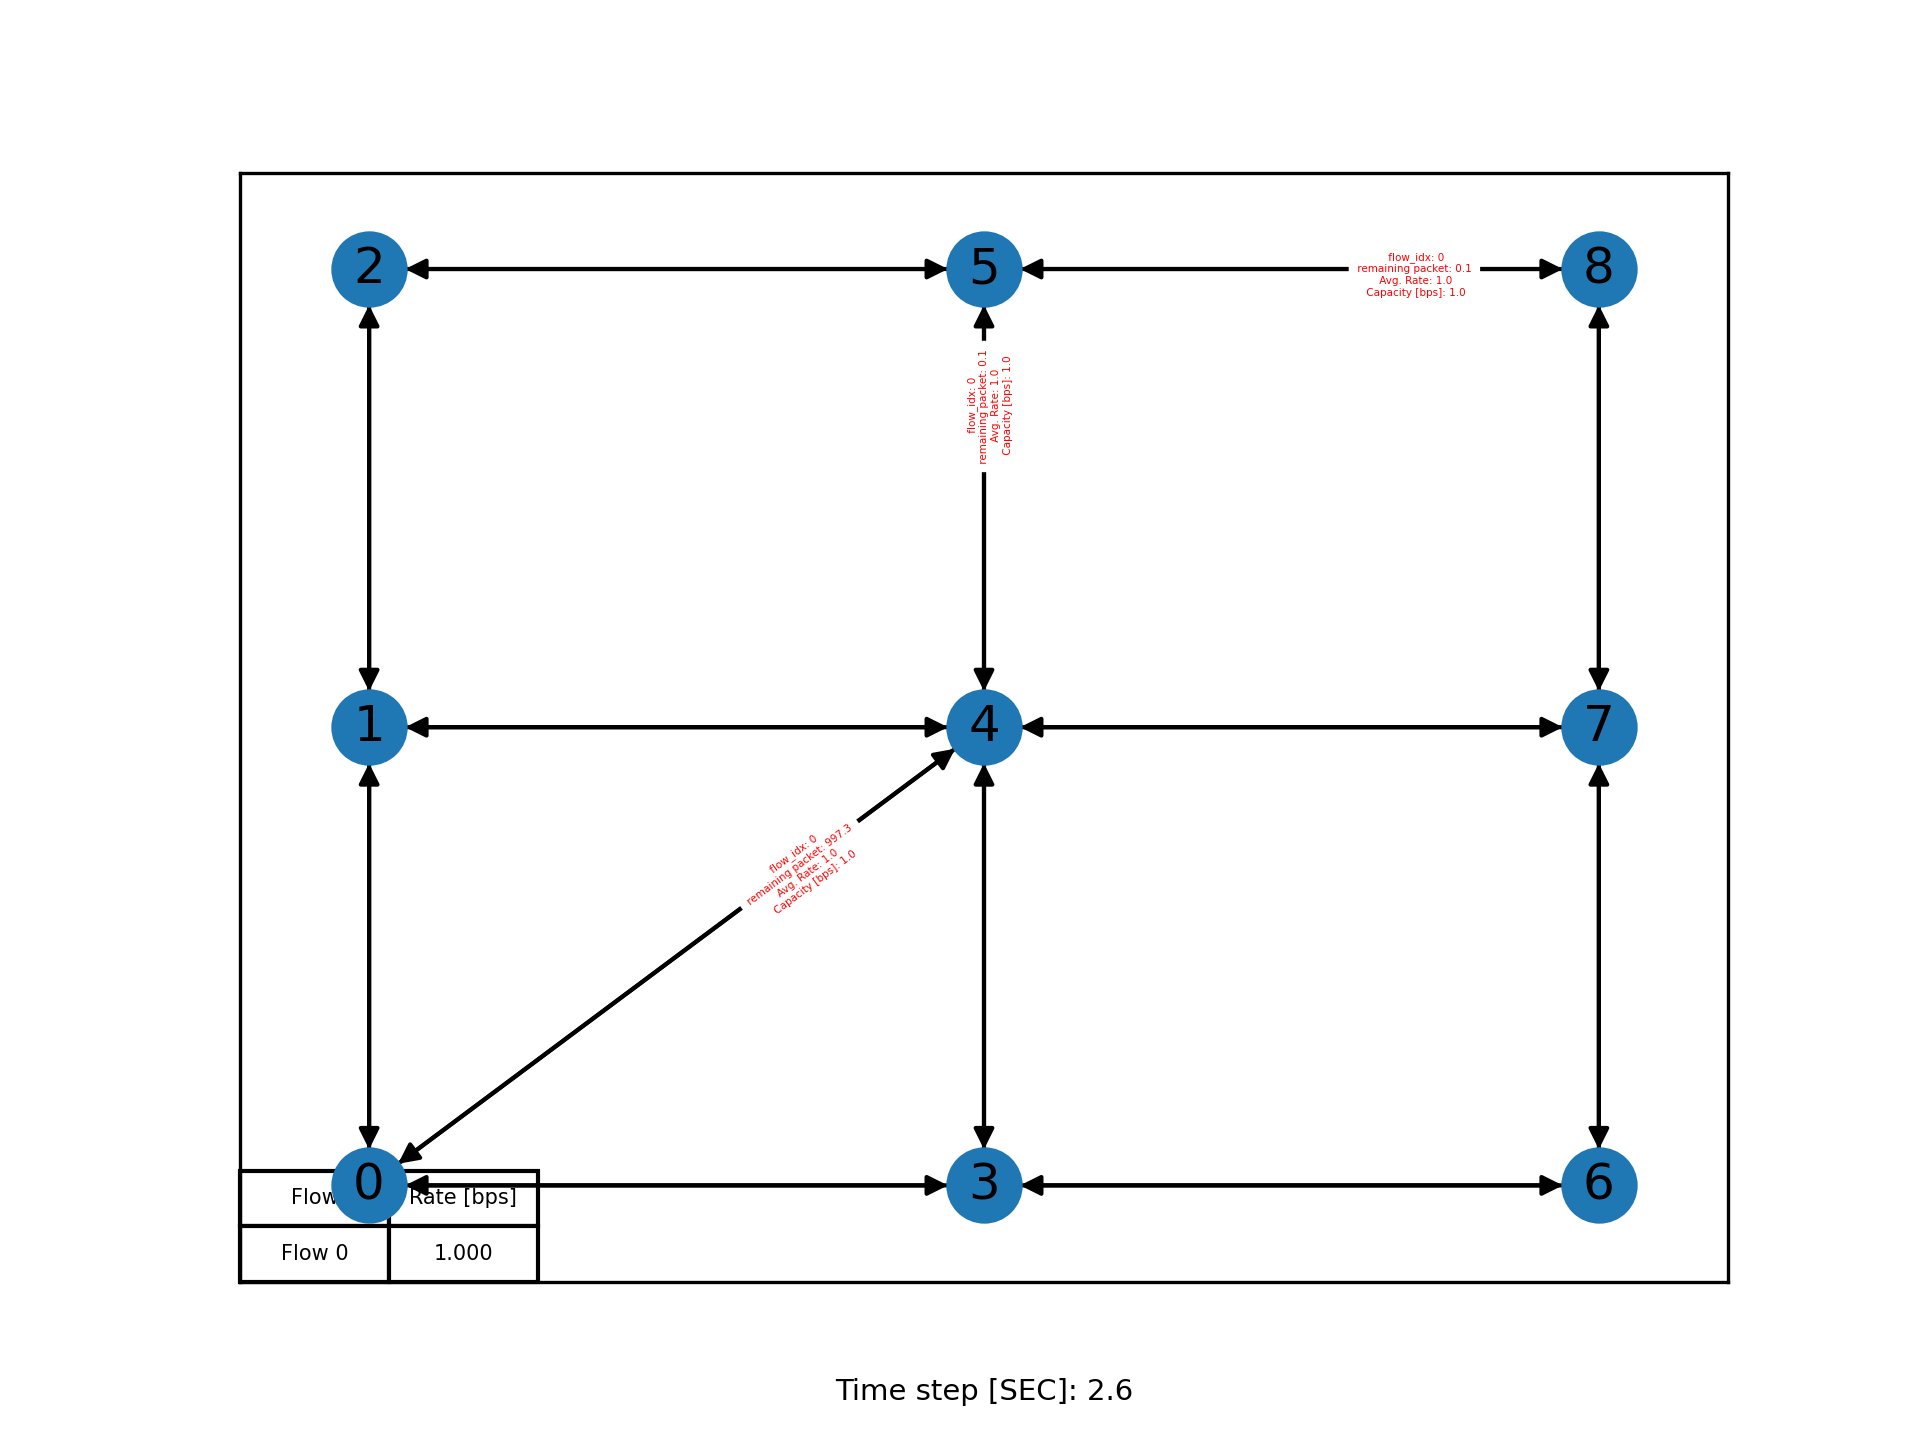
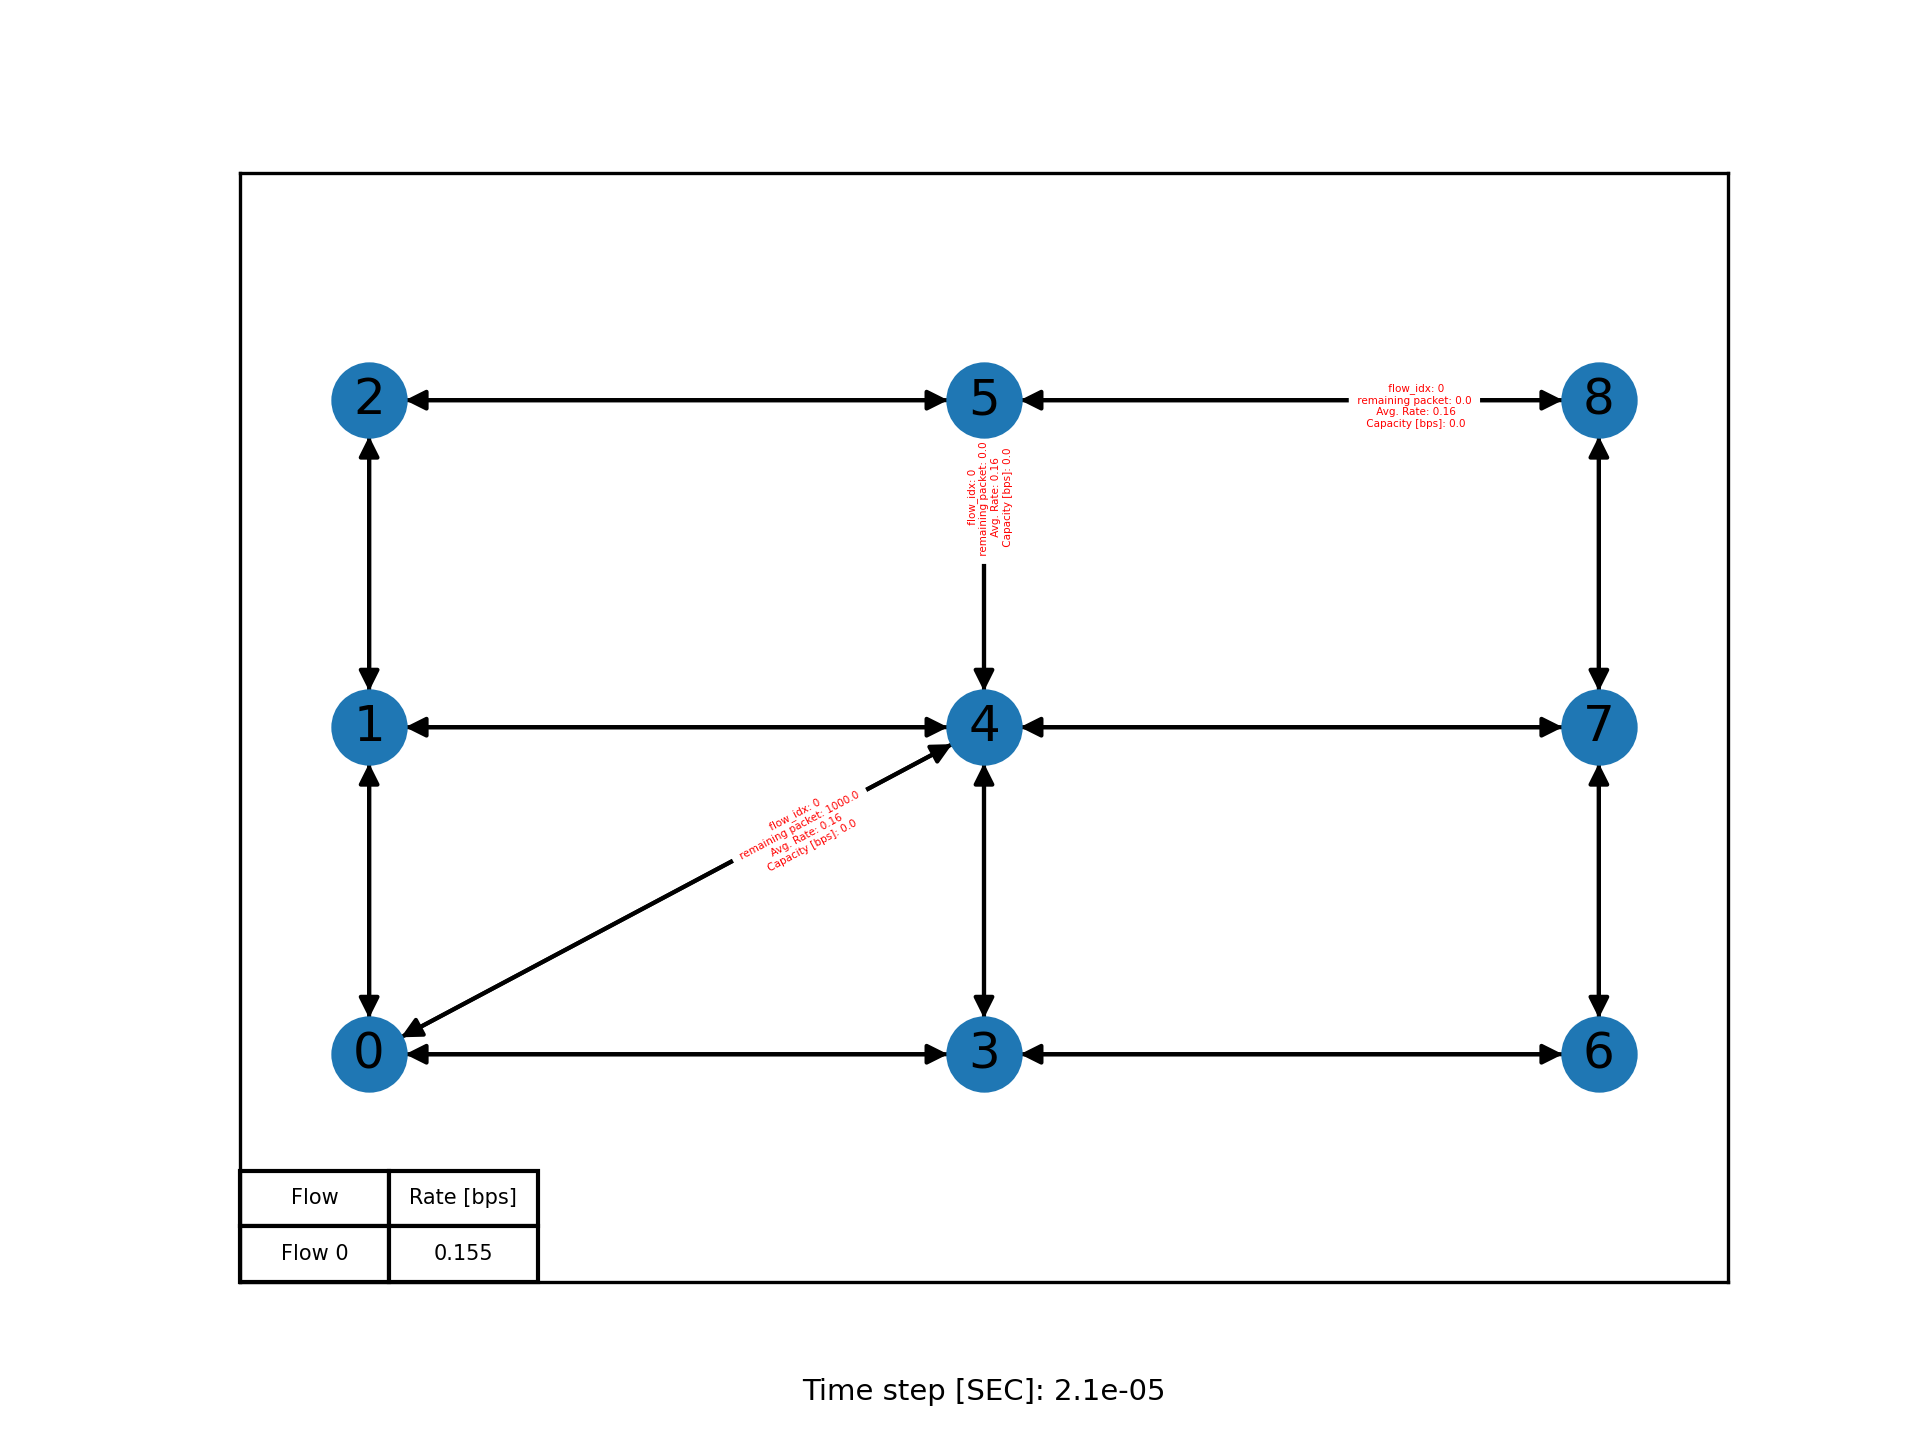
we didnt use env.reset betweet slots! now fixed

diff --git a/DIAMOND/environment/slotted_graph_env_power.py b/DIAMOND/environment/slotted_graph_env_power.py
@@ -743,6 +743,42 @@ class SlottedGraphEnvPower:
 
         return reward
 
+    # def end_of_slot_update(self,state):
+    #     '''
+    #     this function reset the part in state that is needed to be resets (demands) betwwen each time slot
+    #     and output data for our likings betwwens time slots
+    #     '''
+    #     # gather rate and delay data
+    #     all_data , Avg_Rate_over_flows = self.get_rates_data()
+
+    #     # reset routing metrics
+    #     self.routing_metrics = dict(rate=dict(rate_per_flow=np.full([self.num_flows,self.slot_duration],np.inf).astype(np.float64)),
+    #                                 delay=dict(end_to_end_delay_per_flow=np.zeros(self.num_flows)))
+
+    #     # reset demands for the next time slot
+    #     self.allocated = []
+    #     allocated = [a[0] for a in self.allocated]
+    #     free_actions = list(set(range(len(self.flows))) - set(allocated)) # unassinged flows, EMPTY free_actions means we are in the last flow in the slot
+    #     free_paths = []
+    #     free_paths_idx = []
+    #     demand = []
+    #     for a in free_actions:
+    #         p = self.possible_actions[a]        #posible routs for unassigned flow a
+    #         free_paths_idx += [[a, k] for k in range(len(p))]
+    #         free_paths += p
+    #         demand += [self.flows[a]["packets"] for k in p]
+
+    #     # demand
+    #     if free_actions: # if we are not in the last time step of the time slot, than we can calculate the demand
+    #         normalized_demand = np.array(demand).astype(np.float32) / self.max_demand
+    #     else: # if we are in the last time step of the time slot, return initialzed demand
+    #         normalized_demand = None
+
+    #     #copy rest of the state, and update the demand
+    #     new_state = state[0], state[1], free_paths, free_paths_idx, normalized_demand
+
+    #     return new_state, Avg_Rate_over_flows
+
     def end_of_slot_update(self,state):
         '''
         this function reset the part in state that is needed to be resets (demands) betwwen each time slot
@@ -751,33 +787,9 @@ class SlottedGraphEnvPower:
         # gather rate and delay data
         all_data , Avg_Rate_over_flows = self.get_rates_data()
 
-        # reset routing metrics
-        self.routing_metrics = dict(rate=dict(rate_per_flow=np.full([self.num_flows,self.slot_duration],np.inf).astype(np.float64)),
-                                    delay=dict(end_to_end_delay_per_flow=np.zeros(self.num_flows)))
+        observation = self.reset()
 
-        # reset demands for the next time slot
-        self.allocated = []
-        allocated = [a[0] for a in self.allocated]
-        free_actions = list(set(range(len(self.flows))) - set(allocated)) # unassinged flows, EMPTY free_actions means we are in the last flow in the slot
-        free_paths = []
-        free_paths_idx = []
-        demand = []
-        for a in free_actions:
-            p = self.possible_actions[a]        #posible routs for unassigned flow a
-            free_paths_idx += [[a, k] for k in range(len(p))]
-            free_paths += p
-            demand += [self.flows[a]["packets"] for k in p]
-
-        # demand
-        if free_actions: # if we are not in the last time step of the time slot, than we can calculate the demand
-            normalized_demand = np.array(demand).astype(np.float32) / self.max_demand
-        else: # if we are in the last time step of the time slot, return initialzed demand
-            normalized_demand = None
-
-        #copy rest of the state, and update the demand
-        new_state = state[0], state[1], free_paths, free_paths_idx, normalized_demand
-
-        return new_state, Avg_Rate_over_flows
+        return observation, Avg_Rate_over_flows
 
     def get_delay_data(self):
         data = self.routing_metrics.get('delay')

diff --git a/DIAMOND/test/inference_vs_competitors_simple.py b/DIAMOND/test/inference_vs_competitors_simple.py
@@ -26,9 +26,9 @@ if __name__ == "__main__":
     reward_weights = dict(rate_weight=0.5, delay_weight=0, interference_weight=0, capacity_reduction_weight=0)
 
     # ------------------------------------------------------------------------
-    Simulation_Time_Resolution = 1e-3       # miliseconds (i.e. each time step is a milisecond - this is the duration of each time step in [SEC])
+    Simulation_Time_Resolution = 1e-1       # miliseconds (i.e. each time step is a milisecond - this is the duration of each time step in [SEC])
     BW_value_in_Hertz = 1#1e6                   # wanted BW in Hertz
-    slot_duration = 5                      # [SEC] 
+    slot_duration = 30                     # [SEC] 
     Tot_num_of_timeslots = 5               # [num of time slots]
     #------------------------------------------------------------------------
 
@@ -82,7 +82,7 @@ if __name__ == "__main__":
 
 
     # number of paths to choose from
-    action_size = 1000                      #search space limitaions?
+    action_size = 10                      #search space limitaions?
 
     # flow demands in KiloByte
     F = [
@@ -122,7 +122,7 @@ if __name__ == "__main__":
                                         node_positions=P,
                                         k=action_size,
                                         reward_weights=reward_weights,
-                                        telescopic_reward = True,
+                                        telescopic_reward = False,
                                         direction = 'minimize',
                                         slot_duration = int( (slot_duration*Tot_num_of_timeslots) / Simulation_Time_Resolution),          # [in SEC]
                                         Tot_num_of_timeslots = 1, # [in Minutes]

diff --git a/DIAMOND/stage1_grrl/agent.py b/DIAMOND/stage1_grrl/agent.py
@@ -141,11 +141,11 @@ class SlottedGRRL:
         Tot_num_of_timeslots = env.Tot_num_of_timeslots
         Tot_rates = []
 
-        for ii in range(Tot_num_of_timeslots): # as long there is still flows running (determines the num of time_slotes in one episode)
+        for slot_indx in range(Tot_num_of_timeslots): # as long there is still flows running (determines the num of time_slotes in one episode)
             for step in range(env.num_flows):
                 a = self._select_action(state, env.possible_actions[step])
                 # action = manual_actions[step]
-                action = [0,0]#[step, a] 
+                action = [step, a]  #[0,0]
                 actions.append(action)
                 paths.append(env.possible_actions[action[0]][action[1]])
                 state, r = env.step(action)
